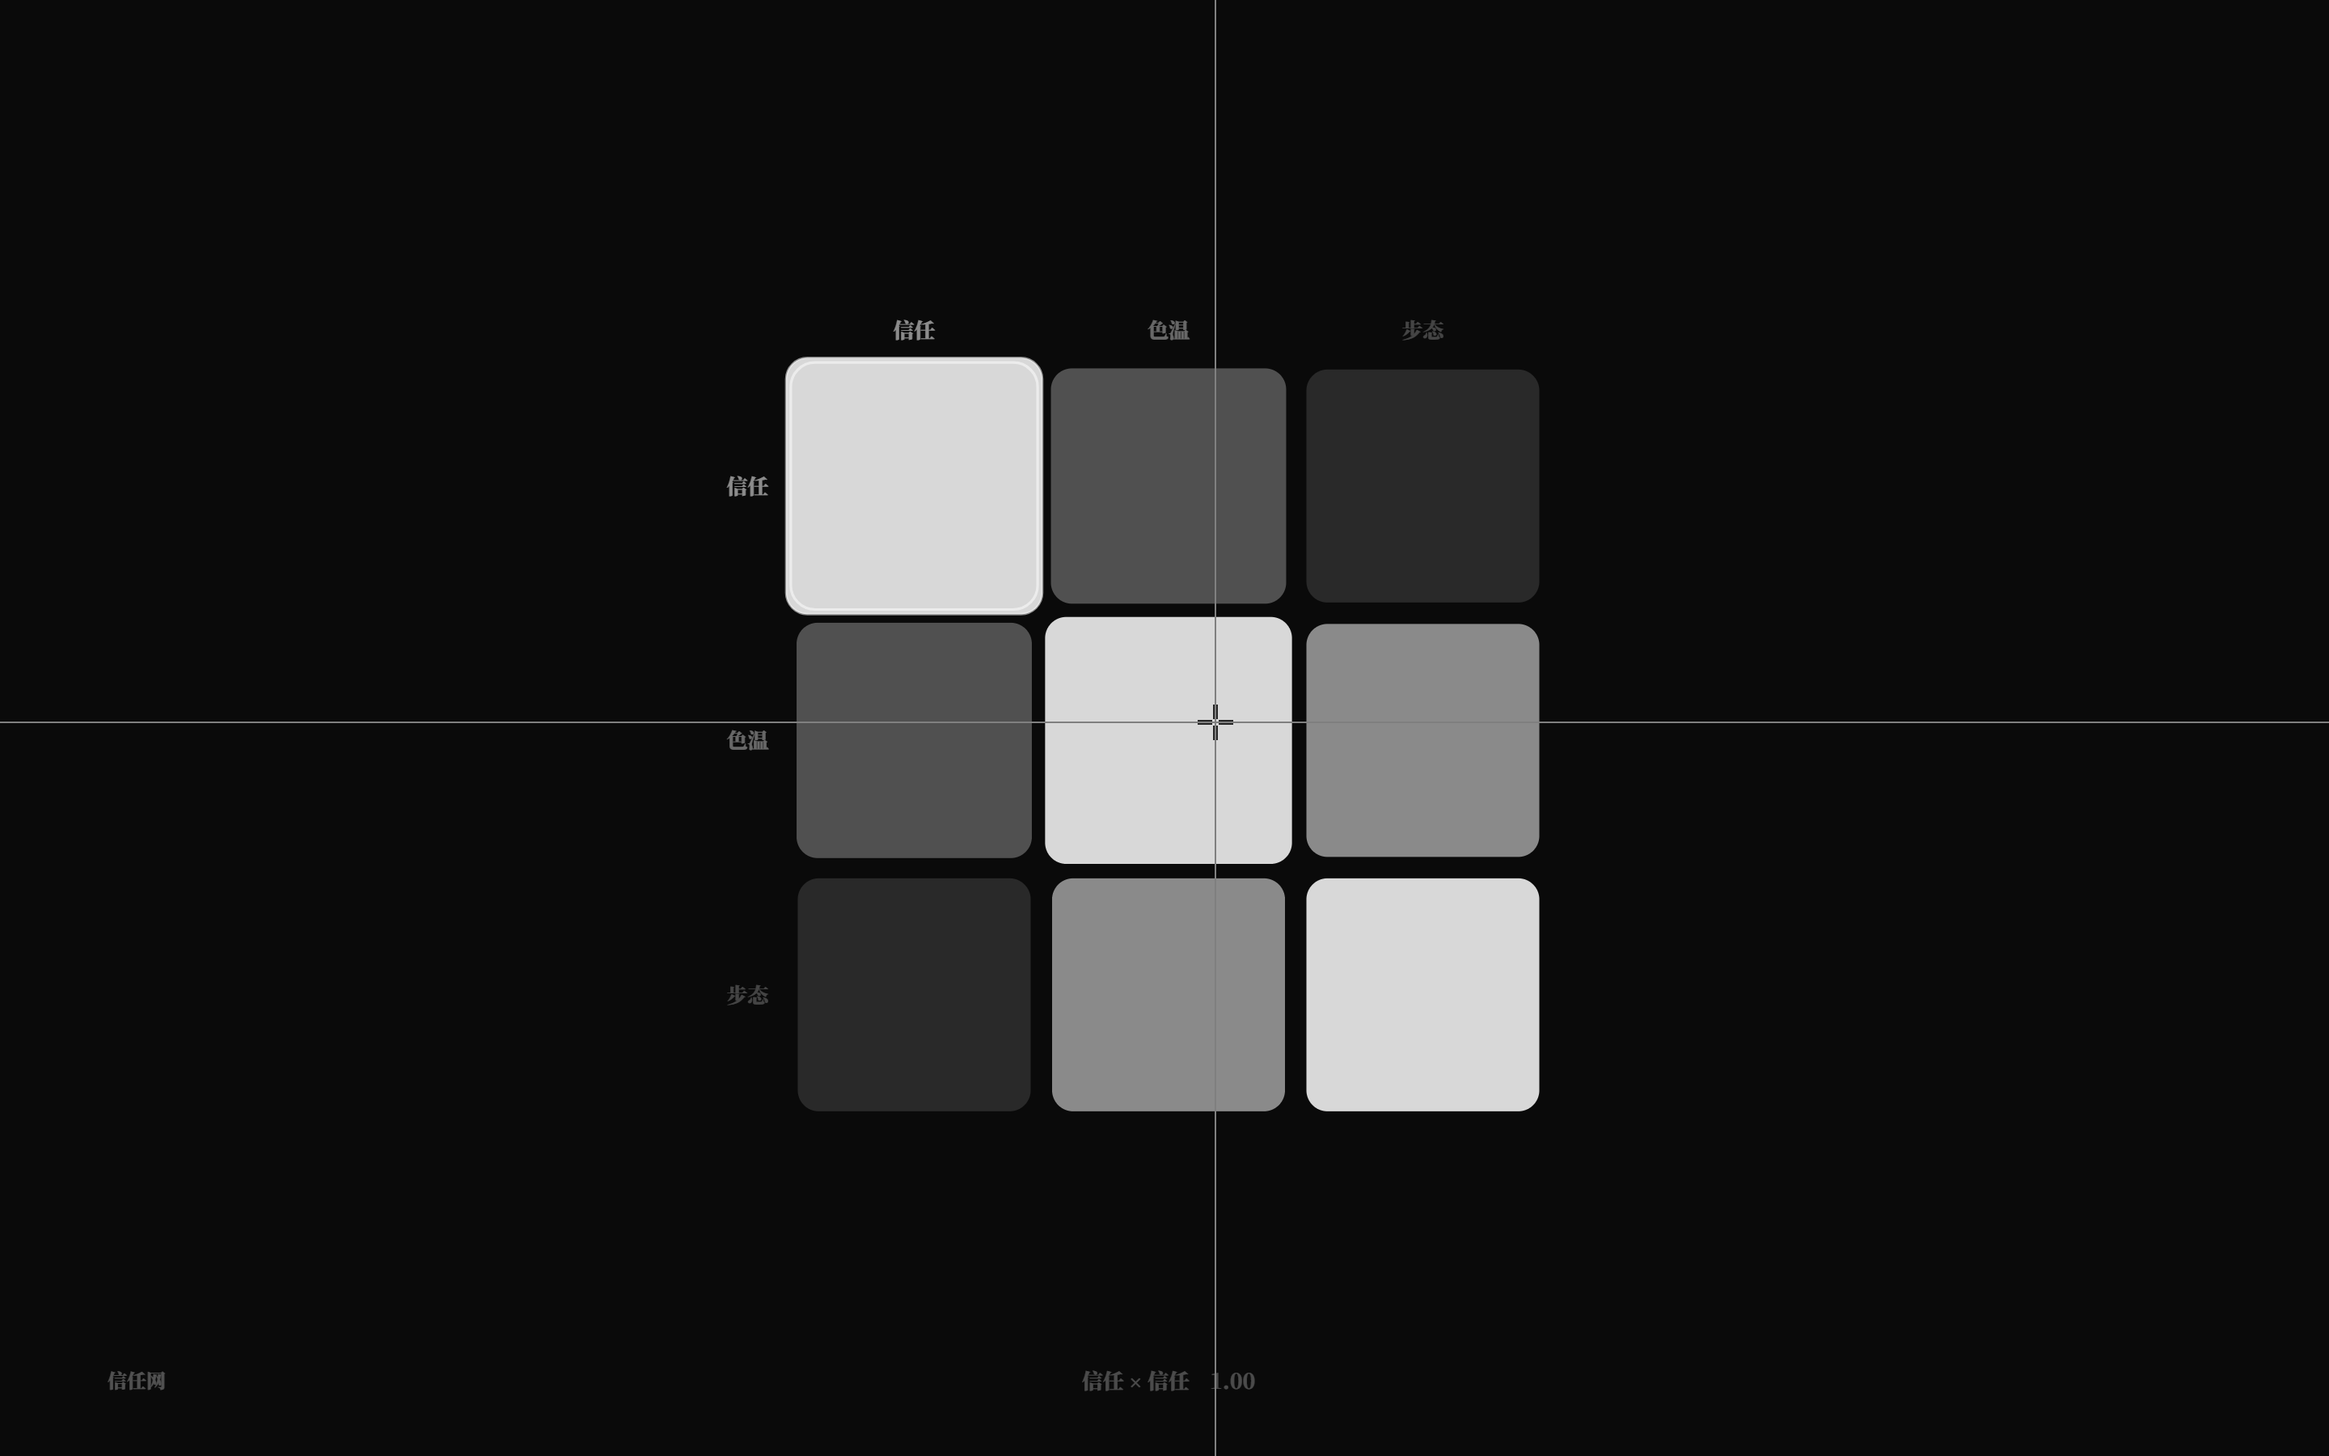
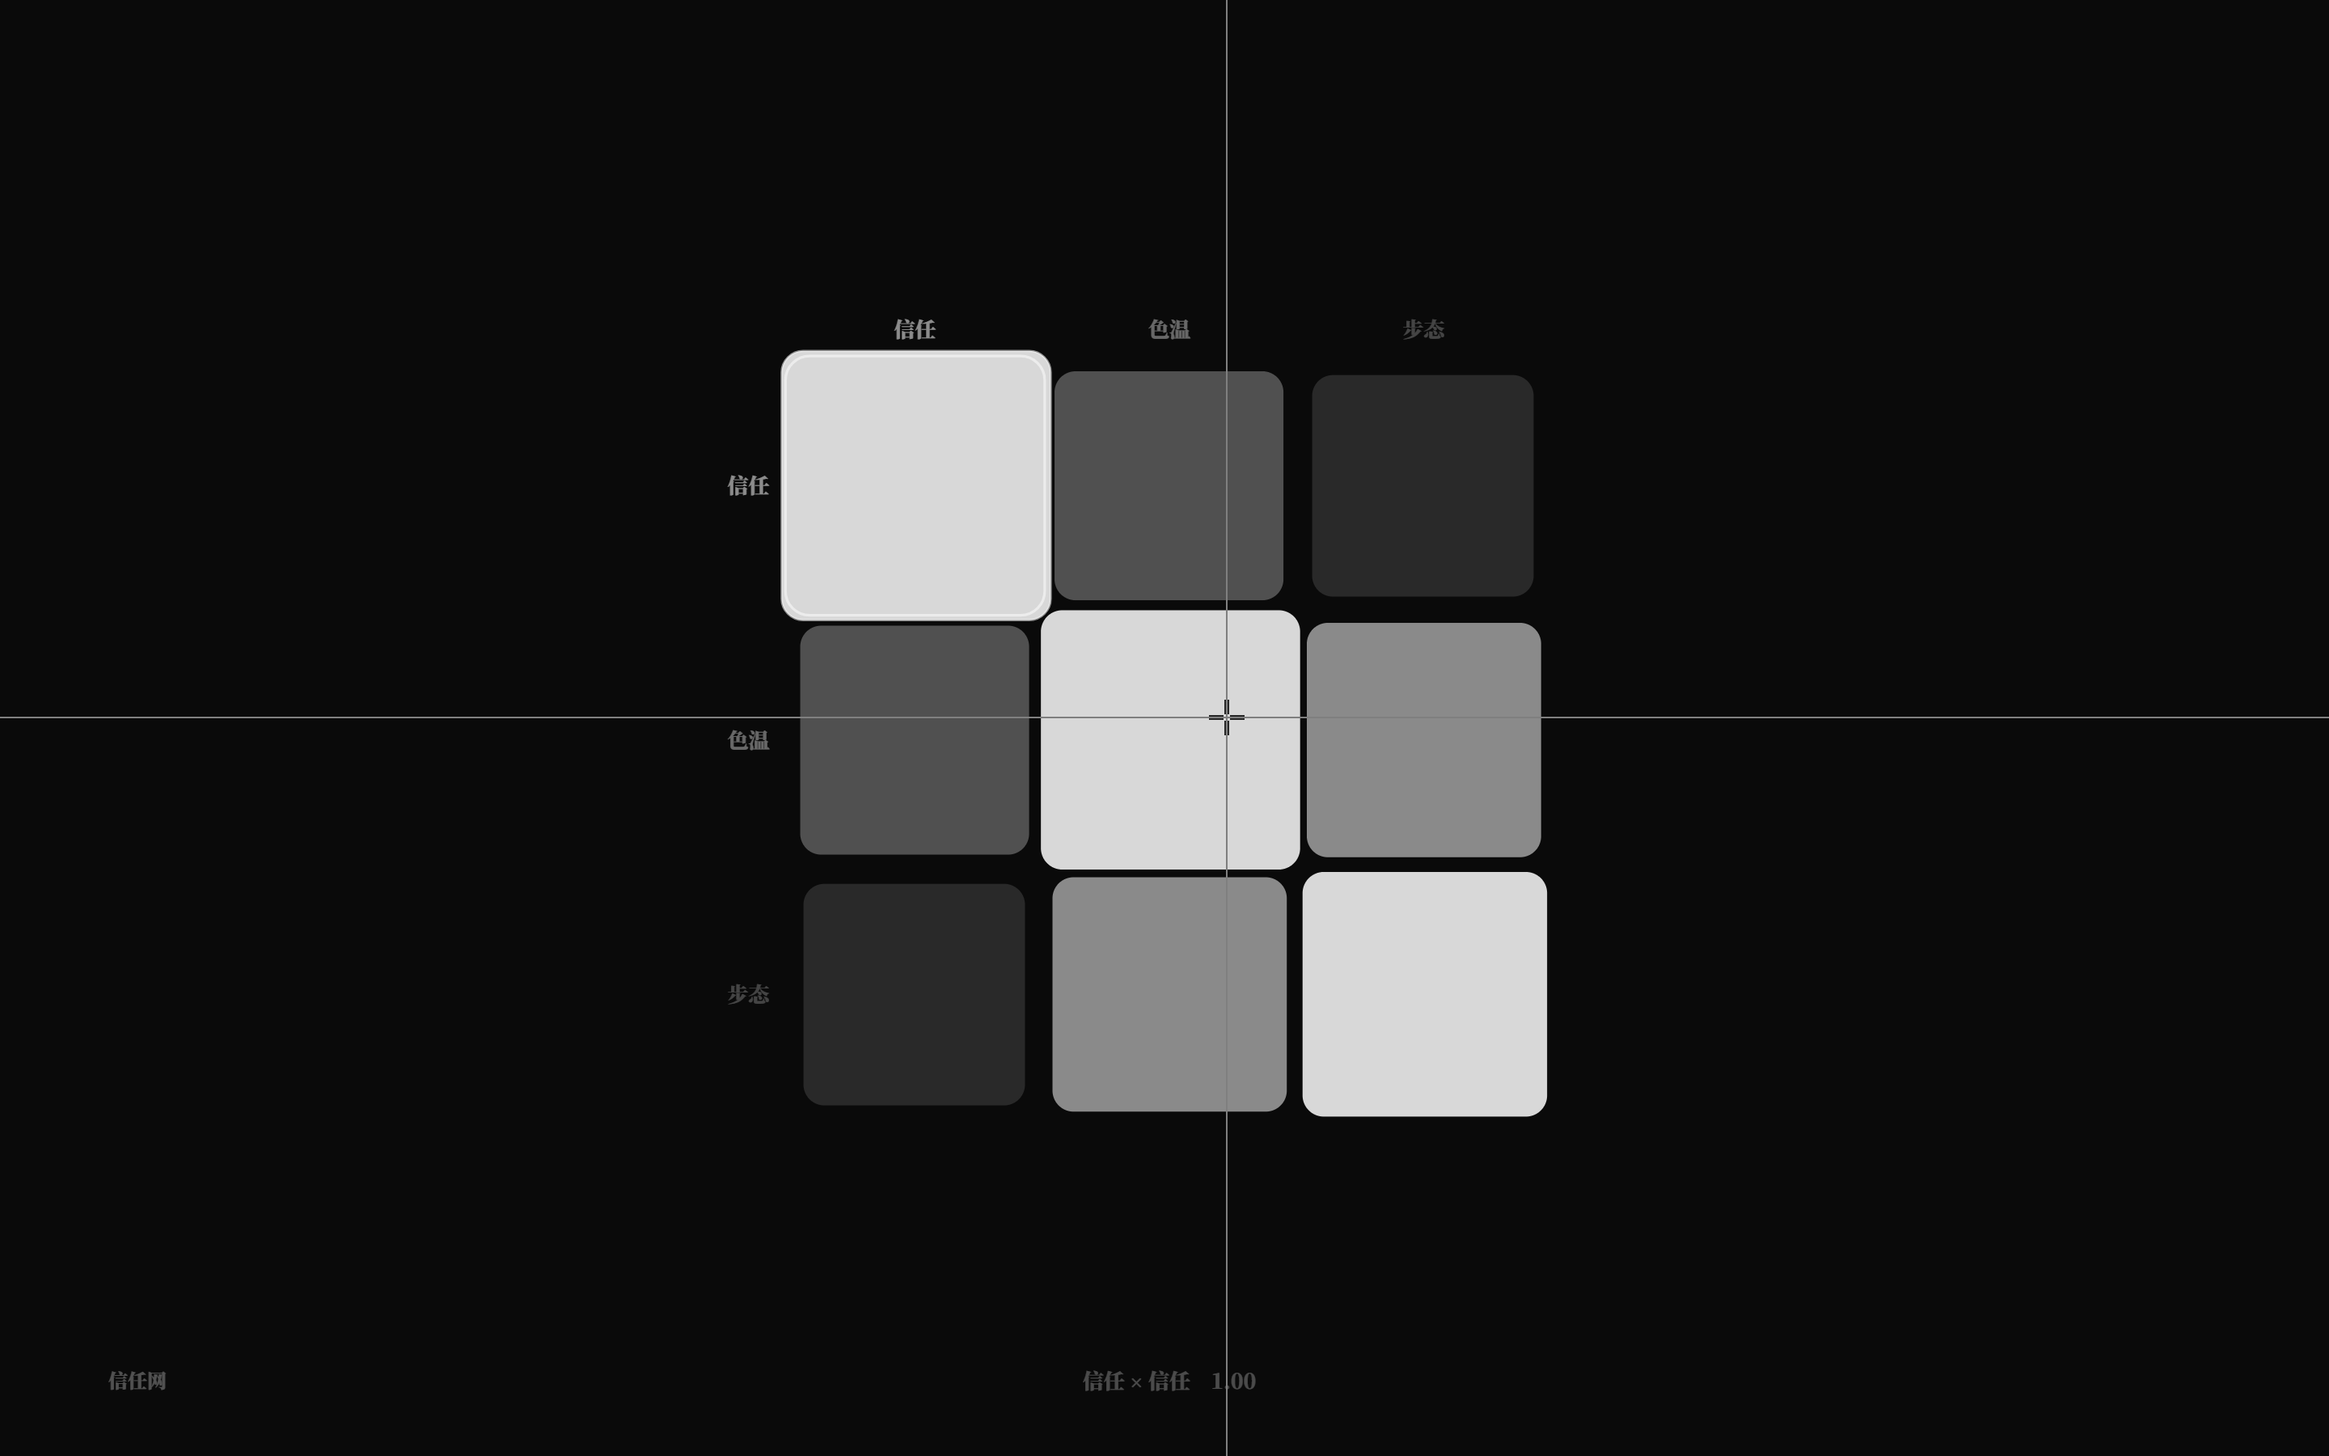
调律台 v2.2.3：矩阵格数值越大越大、视差差速伪 3D

diff --git a/packages/gui/src/MatrixField.tsx b/packages/gui/src/MatrixField.tsx
@@ -35,6 +35,9 @@ interface CellPosition {
   col: number;
   x: number;
   y: number;
+  /** 该格相对未视差位置的实际位移（含亮度差速）。 */
+  dx: number;
+  dy: number;
   value: number;
 }
 
@@ -141,6 +144,12 @@ const CURSOR_FADE_MS = 160;
 /** 命中容差：视差弹簧还没追上时也能稳定点到目标格。 */
 const HIT_TOLERANCE_PX = 10;
 
+/** 伪 3D：越白的格子略大（0.94..1.05），且视差移动更快（0.78..1.22 × 组 offset）。 */
+const CELL_VALUE_SCALE_MIN = 0.94;
+const CELL_VALUE_SCALE_MAX = 1.05;
+const CELL_PARALLAX_BASE = 0.78;
+const CELL_PARALLAX_SPAN = 0.44;
+
 /** 交互灵敏度。 */
 const DRAG_VALUE_PER_PX = 1 / 220;
 const WHEEL_STEP = 0.02;
@@ -182,6 +191,16 @@ function cellGrey(value: number): string {
 function easeOutCubic(t: number): number {
   const value = clamp(t, 0, 1);
   return 1 - (1 - value) * (1 - value) * (1 - value);
+}
+
+/** 亮度 → 尺寸倍率（0.94..1.05）。 */
+function valueScale(value: number): number {
+  return lerp(CELL_VALUE_SCALE_MIN, CELL_VALUE_SCALE_MAX, clamp(value, 0, 1));
+}
+
+/** 亮度 → 视差差速倍率（0.78..1.22）。 */
+function valueParallaxFactor(value: number): number {
+  return CELL_PARALLAX_BASE + clamp(value, 0, 1) * CELL_PARALLAX_SPAN;
 }
 
 function toCellKey(row: number, col: number): string {
@@ -332,6 +351,8 @@ export function MatrixField({ matrices, index, onCycleMatrix, onEditCell, onExit
     let cursorUiNow: { x: number; y: number } | null = { x: LOGICAL_W / 2, y: LOGICAL_H / 2 };
     let cursorActive = true;
     let cursorFade = 1;
+    /** 拖动/滚轮冻结期间缓存各格亮度差速倍率，让所有格子位置一起静止。 */
+    let frozenFactors: number[][] | null = null;
     /** 滚轮编辑后短暂冻结视差。 */
     let wheelFreezeUntil = 0;
     /** 视差弹簧：content 整体平移（response .4s / damping .9）。 */
@@ -422,8 +443,9 @@ export function MatrixField({ matrices, index, onCycleMatrix, onEditCell, onExit
     function snapSelectionToSelected(dt: number): void {
       if (!selected) return;
       const center = cellCenter(layout, selected.row, selected.col);
-      selectionX.target = center.x;
-      selectionY.target = center.y;
+      // 选中框跟「组 offset」（不跟格子的亮度差速）。
+      selectionX.target = center.x + parallaxX.value;
+      selectionY.target = center.y + parallaxY.value;
       selectionX.step(dt);
       selectionY.step(dt);
     }
@@ -506,20 +528,26 @@ export function MatrixField({ matrices, index, onCycleMatrix, onEditCell, onExit
       };
     }
 
-    /** 矩阵空间坐标 → 格子（含少量容差，按最近中心取）。 */
-    function cellAtMatrix(logicalX: number, logicalY: number): CellRef | null {
+    /** 屏幕坐标 → 格子：按每格「亮度差速后的实际位置 + 实际尺寸」命中。 */
+    function cellAtScreen(logicalX: number, logicalY: number, useParallax: boolean): CellRef | null {
       const matrix = currentMatrix();
       if (!matrix) return null;
       const rows = matrixRows(matrix);
       const cols = matrixCols(matrix);
-      const half = layout.cell / 2 + HIT_TOLERANCE_PX;
+      const groupX = useParallax ? parallaxX.value : 0;
+      const groupY = useParallax ? parallaxY.value : 0;
       let best: CellRef | null = null;
       let bestDistance = Number.POSITIVE_INFINITY;
       for (let r = 0; r < rows; r += 1) {
         for (let c = 0; c < cols; c += 1) {
+          const value = displayed[r]?.[c] ?? 0;
+          const factor = frozenFactors?.[r]?.[c] ?? valueParallaxFactor(value);
           const center = cellCenter(layout, r, c);
-          const dx = logicalX - center.x;
-          const dy = logicalY - center.y;
+          const centerX = center.x + groupX * factor;
+          const centerY = center.y + groupY * factor;
+          const half = (layout.cell * valueScale(value)) / 2 + HIT_TOLERANCE_PX;
+          const dx = logicalX - centerX;
+          const dy = logicalY - centerY;
           if (Math.abs(dx) > half || Math.abs(dy) > half) continue;
           const distance = dx * dx + dy * dy;
           if (distance < bestDistance) {
@@ -531,12 +559,9 @@ export function MatrixField({ matrices, index, onCycleMatrix, onEditCell, onExit
       return best;
     }
 
-    /** 屏幕坐标 → 格子：先按当前视差位移命中，视差弹簧未追上时退回未平移坐标。 */
+    /** 屏幕坐标 → 格子：先按当前视差命中，视差弹簧未追上时退回未平移坐标。 */
     function cellAtPointer(logicalX: number, logicalY: number): CellRef | null {
-      return (
-        cellAtMatrix(logicalX - parallaxX.value, logicalY - parallaxY.value) ??
-        cellAtMatrix(logicalX, logicalY)
-      );
+      return cellAtScreen(logicalX, logicalY, true) ?? cellAtScreen(logicalX, logicalY, false);
     }
 
     /* —— 输入 —— */
@@ -753,7 +778,7 @@ export function MatrixField({ matrices, index, onCycleMatrix, onEditCell, onExit
       }
     }
 
-    function drawSummary(matrix: MatrixView): void {
+    function drawSummary(matrix: MatrixView, offsetX: number, offsetY: number): void {
       if (!selected) return;
       const rowName = matrix.rows[selected.row] ?? '';
       const colName = matrix.cols[selected.col] ?? '';
@@ -762,7 +787,11 @@ export function MatrixField({ matrices, index, onCycleMatrix, onEditCell, onExit
       ctx.textAlign = 'center';
       ctx.textBaseline = 'middle';
       ctx.fillStyle = rgba(LABEL_RGB, SUMMARY_ALPHA);
-      ctx.fillText(`${rowName} × ${colName}    ${value.toFixed(2)}`, LOGICAL_W / 2, LOGICAL_H - 46);
+      ctx.fillText(
+        `${rowName} × ${colName}    ${value.toFixed(2)}`,
+        LOGICAL_W / 2 + offsetX,
+        LOGICAL_H - 46 + offsetY,
+      );
     }
 
     /** 自定义光标：全屏 1px 十字 + 22px/3px 粗准星（中心 4px 空隙）；difference 自动反色。 */
@@ -819,25 +848,30 @@ export function MatrixField({ matrices, index, onCycleMatrix, onEditCell, onExit
 
       ctx.save();
       ctx.globalAlpha = clamp(alpha, 0, 1);
-      // 视差：内容整体沿光标方向平移（不影响光标层）。
-      ctx.translate(LOGICAL_W / 2 + parallaxX.value, LOGICAL_H / 2 + parallaxY.value);
+      // 淡入缩放绕屏幕中心；组视差在下面按元素分别叠加（格子还要叠亮度差速）。
+      ctx.translate(LOGICAL_W / 2, LOGICAL_H / 2);
       ctx.scale(scale, scale);
       ctx.translate(-LOGICAL_W / 2, -LOGICAL_H / 2);
 
-      // 格子（含逐格弹簧缩放；选中格额外描边）
+      // 格子：尺寸随亮度（0.94..1.05），视差位移随亮度差速（0.78..1.22 × 组 offset）。
       for (let r = 0; r < rows; r += 1) {
         for (let c = 0; c < cols; c += 1) {
-          const center = cellCenter(layout, r, c);
+          const base = cellCenter(layout, r, c);
           const spring = scales[r]?.[c];
           const value = displayed[r]?.[c] ?? 0;
+          const factor = frozenFactors?.[r]?.[c] ?? valueParallaxFactor(value);
+          const centerX = base.x + parallaxX.value * factor;
+          const centerY = base.y + parallaxY.value * factor;
           const isSelected = selected !== null && selected.row === r && selected.col === c;
-          drawCell(center.x, center.y, value, spring?.value ?? SCALE_BASE, isSelected);
+          const cellScale = (spring?.value ?? SCALE_BASE) * valueScale(value);
+          drawCell(centerX, centerY, value, cellScale, isSelected);
         }
       }
 
-      // 选中框：弹簧滑动位置（比格子略大一点）
+      // 选中框：弹簧滑动位置（跟组 offset，不跟格子差速）
       if (selected) {
-        const size = layout.cell * 1.06;
+        const selectedValue = displayed[selected.row]?.[selected.col] ?? 0;
+        const size = layout.cell * valueScale(selectedValue) * 1.06;
         const radius = layout.radius + 2;
         ctx.strokeStyle = rgba(LABEL_RGB, 0.7);
         ctx.lineWidth = 1.6;
@@ -846,7 +880,7 @@ export function MatrixField({ matrices, index, onCycleMatrix, onEditCell, onExit
         ctx.stroke();
       }
 
-      // 行标签（左侧）
+      // 行标签（左侧）：跟组 offset
       ctx.font = `${ROW_LABEL_FONT_PX}px ${DEFAULT_SERIF}`;
       ctx.textAlign = 'right';
       ctx.textBaseline = 'middle';
@@ -855,10 +889,10 @@ export function MatrixField({ matrices, index, onCycleMatrix, onEditCell, onExit
         const active = selected?.row === r;
         const hovering = hover?.row === r;
         ctx.fillStyle = rgba(LABEL_RGB, active ? LABEL_ACTIVE_ALPHA : hovering ? LABEL_HOVER_ALPHA : LABEL_ALPHA);
-        ctx.fillText(matrix.rows[r] ?? '', layout.left - LABEL_GAP, center.y);
+        ctx.fillText(matrix.rows[r] ?? '', layout.left - LABEL_GAP + parallaxX.value, center.y + parallaxY.value);
       }
 
-      // 列标签（上方）
+      // 列标签（上方）：跟组 offset
       ctx.font = `${COL_LABEL_FONT_PX}px ${DEFAULT_SERIF}`;
       ctx.textAlign = 'center';
       for (let c = 0; c < cols; c += 1) {
@@ -866,27 +900,31 @@ export function MatrixField({ matrices, index, onCycleMatrix, onEditCell, onExit
         const active = selected?.col === c;
         const hovering = hover?.col === c;
         ctx.fillStyle = rgba(LABEL_RGB, active ? LABEL_ACTIVE_ALPHA : hovering ? LABEL_HOVER_ALPHA : LABEL_ALPHA);
-        ctx.fillText(matrix.cols[c] ?? '', center.x, layout.top - LABEL_GAP - COL_LABEL_FONT_PX / 2);
+        ctx.fillText(
+          matrix.cols[c] ?? '',
+          center.x + parallaxX.value,
+          layout.top - LABEL_GAP - COL_LABEL_FONT_PX / 2 + parallaxY.value,
+        );
       }
 
-      // 左下极淡矩阵名
+      // 左下极淡矩阵名：跟组 offset
       ctx.font = `${NAME_FONT_PX}px ${DEFAULT_SERIF}`;
       ctx.textAlign = 'left';
       ctx.fillStyle = rgba(LABEL_RGB, NAME_ALPHA);
-      ctx.fillText(matrix.name, 64, LOGICAL_H - 46);
+      ctx.fillText(matrix.name, 64 + parallaxX.value, LOGICAL_H - 46 + parallaxY.value);
 
       // 底部选中格：行 × 列 + 极淡数值
-      drawSummary(matrix);
+      drawSummary(matrix, parallaxX.value, parallaxY.value);
 
       // 多矩阵指示点（右下，当前略深；不显示数字）
       const total = matricesRef.current.length;
       if (total > 1) {
         const activeIndex = clamp(indexRef.current, 0, total - 1);
-        const startX = LOGICAL_W - 64 - (total - 1) * 12;
+        const startX = LOGICAL_W - 64 - (total - 1) * 12 + parallaxX.value;
         for (let i = 0; i < total; i += 1) {
           ctx.fillStyle = rgba(LABEL_RGB, i === activeIndex ? 0.55 : 0.22);
           ctx.beginPath();
-          ctx.arc(startX + i * 12, LOGICAL_H - 46, 2, 0, Math.PI * 2);
+          ctx.arc(startX + i * 12, LOGICAL_H - 46 + parallaxY.value, 2, 0, Math.PI * 2);
           ctx.fill();
         }
       }
@@ -967,6 +1005,13 @@ export function MatrixField({ matrices, index, onCycleMatrix, onEditCell, onExit
       }
       parallaxX.step(dt);
       parallaxY.step(dt);
+      if (frozen) {
+        if (!frozenFactors) {
+          frozenFactors = displayed.map((row) => row.map((value) => valueParallaxFactor(clampValue(value))));
+        }
+      } else {
+        frozenFactors = null;
+      }
       if (
         Math.abs(parallaxX.value - offsetUiNow.x) > 0.1 ||
         Math.abs(parallaxY.value - offsetUiNow.y) > 0.1
@@ -1017,12 +1062,18 @@ export function MatrixField({ matrices, index, onCycleMatrix, onEditCell, onExit
         for (let r = 0; r < displayed.length; r += 1) {
           for (let c = 0; c < (displayed[r]?.length ?? 0); c += 1) {
             const center = cellCenter(layout, r, c);
+            const value = displayed[r]?.[c] ?? 0;
+            const factor = frozenFactors?.[r]?.[c] ?? valueParallaxFactor(value);
+            const dx = parallaxX.value * factor;
+            const dy = parallaxY.value * factor;
             result.push({
               row: r,
               col: c,
-              x: Math.round((center.x + parallaxX.value) * 100) / 100,
-              y: Math.round((center.y + parallaxY.value) * 100) / 100,
-              value: round4(displayed[r]?.[c] ?? 0),
+              x: Math.round((center.x + dx) * 100) / 100,
+              y: Math.round((center.y + dy) * 100) / 100,
+              dx: Math.round(dx * 100) / 100,
+              dy: Math.round(dy * 100) / 100,
+              value: round4(value),
             });
           }
         }

diff --git a/docs/25-关系谱GUI.md b/docs/25-关系谱GUI.md
@@ -28,6 +28,9 @@
 - **自定义反色光标**：隐藏系统光标；整屏 1px 白色半透明十字线 + 交界处 22px/3px 满强度粗十字准星，
   以 `globalCompositeOperation='difference'` 画在最上层——深色背景上近白、白色格子上自动变暗，
   每个位置都按下方背景自然反色；中心留 4px 空隙，光标离开时淡出。
+- **伪 3D 深度（v2.2.3）**：格子基础尺寸随数值 0.94..1.05 倍（越白越大，差异克制）；
+  每格视差位移 = 组偏移 × (0.78 + value×0.44)（越白移动越快，黑约 0.78×、白约 1.22×），
+  行列标签/选中框仍跟组偏移。高值格与低值格差速约 12px，形成静止时的层次与移动时的视差纵深。
 
 ![视差与反色光标](assets/25-matrix-parallax.png)
 
@@ -57,7 +60,7 @@
 ## 5. 验收
 
 - `pnpm test` **207/207**（矩阵 core 18 + 矩阵写回 3 + 其余）；
-- `pnpm test:gui` **160/160**：F3 进入、3×3 值、视差跟随、中心无偏移+光标存在、九格可定位、拖动改值+写回、Ctrl+Z、F3 退出；既有 151 项不回归；
+- `pnpm test:gui` **161/161**：F3 进入、3×3 值、视差跟随、伪 3D 差速、中心无偏移+光标存在、九格可定位、拖动改值+写回、Ctrl+Z、F3 退出；既有 151 项不回归；
 - `check` / `check:gui` / `build` 通过；GUI 截图由 `artifacts/shot-matrix.mjs` 生成。
 
 ![关系谱悬停](assets/25-matrix-hover.png)
